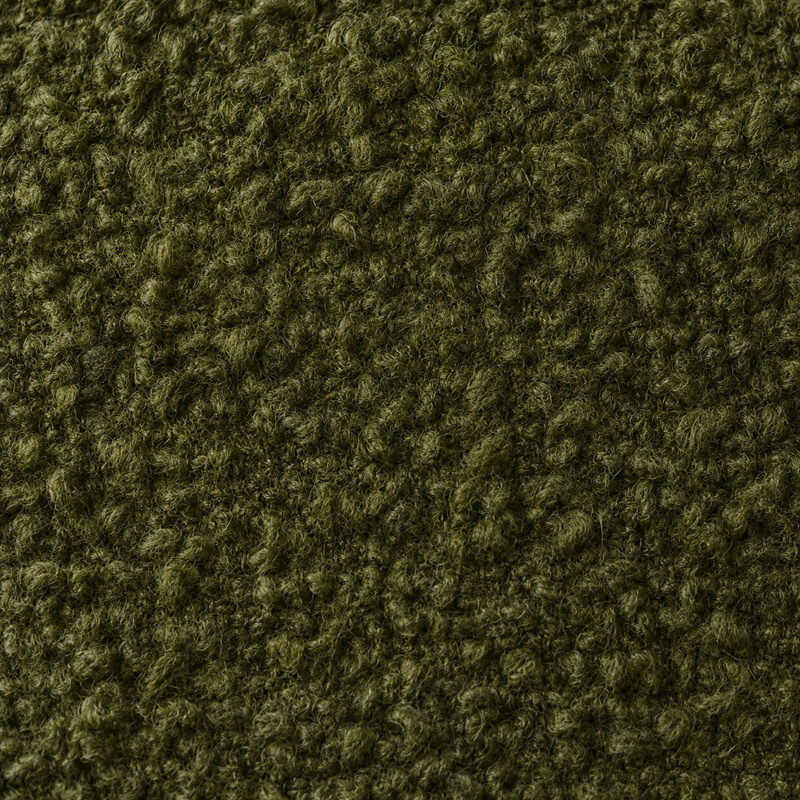
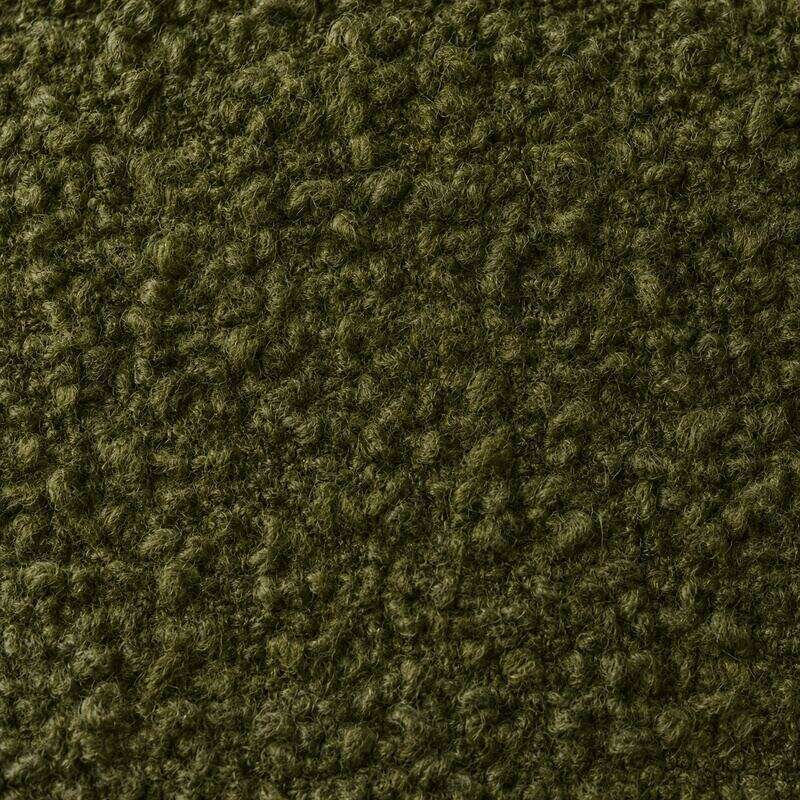
Speed: lighter stand-ins and flat paper backdrops
Live speed gate failed on page weight (1,096 KB) and biggest image (457 KB).
- scripts/shrink-stand-ins.sh recompresses every picture over 100 KB
- scripts/flatten-paper.sh snaps backdrop noise to exactly the page paper
- Local gate: page weight 916 KB, biggest image 99 KB

diff --git a/RECIPE.md b/RECIPE.md
@@ -74,6 +74,7 @@ The source is in the PUBLIC repo `businessboosterlk/furniture-one-pager` (origin
 - The page is Hero (five frames: drawing, timber, joined, finished, at home), Rooms `#rooms`, Ready to buy `#shop`, Build yours `#build`, Detail row `#detail`, Craft band `#craft`, Visit `#visit`, Footer. Components: `src/components/{Rooms,Ready,Build,Details,Craft,Visit,Footer}.astro`; styles `src/styles/sections.css` (phone first, desk layout from 900px); script `public/sections.js` (rooms, ready counter, build state, all external, no inline).
 - Every text and value comes from `src/site.config.ts` (`rooms`, `ready`, `build`, `details`, `craft`, `visit`, `site.contact`) and prints through `ph()`.
 - Backdrop matching: originals are in `stand-in-originals/` (hero-1-timber, hero-2-joinery, hero-3-piece, build-drawing). `scripts/match-paper.sh <slot> x0 y0 x1 y1` (percent box of the piece and its shadow) rewrites `src/assets/stand-ins/<slot>.jpg` so the backdrop is exactly `#F4EFE6`. Needs ImageMagick (`magick`).
+- After `match-paper.sh`, run `scripts/flatten-paper.sh <slot>` (snaps the last whisper of JPEG noise to exactly the paper so no faint blotch or box shows). Then `scripts/shrink-stand-ins.sh` keeps every picture under 100 KB (speed gate: page weight 1,000 KB, biggest image 200 KB; all five hero frames load at once). Order: match, flatten, shrink.
 - `room-1.jpg` is `magick hero-4-home.jpg -crop 2000x1333+0+380 +repage`.
 - Extra checks: `node scripts/sections-click.mjs <url>` presses every room tab, Next room, dot, Buy, preset, size, fabric, Send, Call and footer link (48 PASS expected); `node scripts/section-shots.mjs <url> <outdir>` writes a phone and a desk picture of every section and fails on sideways scroll or a console error; `node scripts/hero-shots.mjs <url> <outdir>` shows the five hero frames.
 - Rules kept: no inline script or style, no new external host, no form, WhatsApp and tel links only.

diff --git a/DECISIONS.md b/DECISIONS.md
@@ -80,3 +80,4 @@ Prior-art gate, answered in writing: BB has built a hero-led one page site befor
 | Links | WhatsApp (`wa.me`), `tel:`, no `<form>` | Form posting, payments | Not approved. Number is the placeholder 94000000000 |
 | Phone | Works, no sideways scroll, safe areas kept | Polishing | Thulaib 15 Nov: phone after the client confirms |
 | Hosting | None added | | BB provides no hosting; the client holds it |
+| Speed | Stand-ins recompressed (`scripts/shrink-stand-ins.sh`), backdrop noise flattened (`scripts/flatten-paper.sh`) | Lazy loading the hero frames | The live speed gate failed on weight (1,096 KB) and biggest image (457 KB). All five hero frames sit in the viewport so lazy loading does not help. Stand-ins are replaced later, so lighter files cost nothing |
